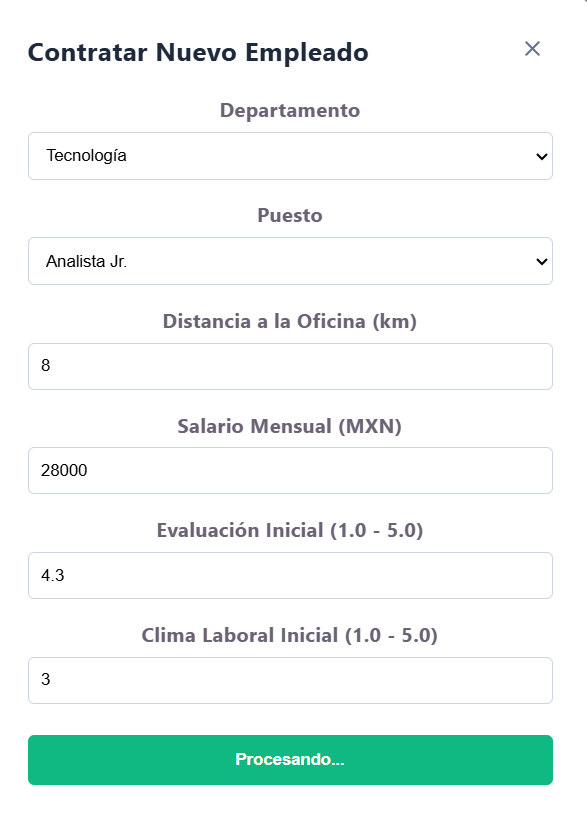
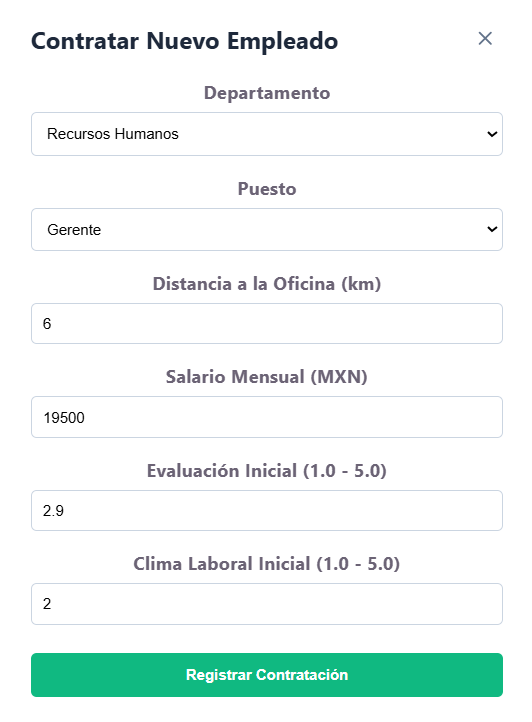
docs(mvp): enlazar capturas debajo de cada una de las 6 pruebas e incluir evidencias de alta y baja logica con clima

diff --git a/Documentos/MVP.md b/Documentos/MVP.md
@@ -9,8 +9,8 @@
 ## 1. Propósito y Resumen Ejecutivo del MVP
 
 El presente documento define formalmente el alcance funcional, técnico y demostrativo del Producto Mínimo Viable (MVP) del **Motor Predictivo de Rotación de Personal**. Su objetivo es proporcionar al área de Recursos Humanos y Dirección de PluriOne S.A. de C.V. una herramienta web funcional y segura capaz de:
-1. Centralizar el expediente operativo de los colaboradores (contratación, salario, desempeño y baja lógica).
-2. Predecir la probabilidad de renuncia mediante un modelo de Machine Learning (**Random Forest Classifier**) entrenado sobre datos históricos reales/simulados en PostgreSQL.
+1. Centralizar el expediente operativo de los colaboradores (contratación, salario, desempeño, clima laboral y baja lógica).
+2. Predecir la probabilidad de renuncia mediante un modelo de Machine Learning (**Random Forest Classifier**) entrenado sobre datos sintéticos almacenados en PostgreSQL (`PluriOne_db`).
 3. Explicar en lenguaje natural las causas detrás de cada predicción (**Inteligencia Artificial Explicable - XAI**) para respaldar decisiones preventivas de retención.
 
 ---
@@ -30,36 +30,36 @@ El MVP opera bajo una arquitectura cliente-servidor desacoplada en 4 capas:
 
 ## 3. Funciones Incluidas en la Entrega (En Alcance)
 
-A continuación se desglosan los módulos que integran la entrega actual y que se encuentran implementados y verificados de punta a punta en el repositorio (ver evidencias en la carpeta /Capturas):
+A continuación se desglosan los módulos que integran la entrega actual y que se encuentran implementados y respaldados mediante las capturas de ejecución ubicadas en el directorio `Capturas/`:
 
 ### 3.1. Módulo de Seguridad, Autenticación y Control de Administradores
-* **Aislamiento de Secretos (`.env`):** Ninguna credencial reside en el código fuente. `backend/database.py` consume `DATABASE_URL` con el driver asíncrono `postgresql+asyncpg://`, `backend/security.py` exige `JWT_SECRET_KEY` (deteniendo el arranque con un `ValueError` si no está configurada) y `backend/crear_admin.py` lee `ADMIN_PASSWORD_INICIAL`.
-* **Encriptación Directa con `bcrypt`:** Las contraseñas de los administradores se procesan directamente con `bcrypt.gensalt()` y `bcrypt.hashpw()`, almacenando únicamente el hash resultante en la tabla `usuarios_admin`.
-* **Autenticación OAuth2 con JWT (`POST /api/v1/login`):** Valida credenciales sin valores precargados en el frontend y emite un token `Bearer` firmado con el algoritmo `HS256`.
-* **Gestión de Administradores (`GET /api/v1/admins` y `POST /api/v1/admins`):** Permite consultar la lista de administradores activos (omitiendo el campo `hashed_password` por seguridad) y registrar nuevos administradores verificando que no existan correos duplicados.
+- **Aislamiento de Secretos (`.env`):** Ninguna credencial reside en el código fuente. `backend/database.py` consume `DATABASE_URL` con el driver asíncrono `postgresql+asyncpg://`, `backend/security.py` exige `JWT_SECRET_KEY` (deteniendo el arranque con un `ValueError` si no está configurada) y `backend/crear_admin.py` lee `ADMIN_PASSWORD_INICIAL`.
+- **Encriptación Directa con `bcrypt`:** Las contraseñas de los administradores se procesan directamente con `bcrypt.gensalt()` y `bcrypt.hashpw()`, almacenando únicamente el hash resultante en la tabla `usuarios_admin`.
+- **Autenticación OAuth2 con JWT (`POST /api/v1/login`):** Valida credenciales sin valores precargados en el frontend y emite un token `Bearer` firmado con el algoritmo `HS256`.
+- **Gestión de Administradores (`GET /api/v1/admins` y `POST /api/v1/admins`):** Permite consultar la lista de administradores activos (omitiendo el campo `hashed_password` por seguridad) y registrar nuevos administradores verificando que no existan correos duplicados.
 
 ### 3.2. Módulo de Directorio y Ciclo de Vida de Empleados
-* **Consulta Histórica Relacional (`GET /api/v1/empleados`):** Endpoint protegido que realiza un cruce asíncrono (`outerjoin`) entre las tablas `empleados`, `historial_salarios` y `evaluaciones_desempeno`, ordenando por fecha de contratación descendente.
-* **Alta Transaccional de Colaboradores (`POST /api/v1/empleados`):** Registra un nuevo empleado generando su `UUID` primario y crea simultáneamente, en la misma transacción, su registro inicial en `historial_salarios` (motivo: *"Contratación Inicial"*) y su primera evaluación en `evaluaciones_desempeno`.
-* **Baja Lógica / Soft Delete (`DELETE /api/v1/empleados/{empleado_id}`):** En lugar de destruir el registro con un `DELETE` físico, cambia la bandera `estado_activo = False`. **Regla de negocio clave:** Conservar a los exempleados en la base de datos es indispensable para que el modelo de Machine Learning tenga casos reales de renuncia (`renuncio = 1`) con los cuales aprender.
+- **Consulta Histórica Relacional (`GET /api/v1/empleados`):** Endpoint protegido que realiza un cruce asíncrono (`outerjoin`) entre las tablas `empleados`, `historial_salarios`, `evaluaciones_desempeno` y `encuestas_clima`, ordenando por fecha de contratación descendente.
+- **Alta Transaccional de Colaboradores (`POST /api/v1/empleados`):** Registra un nuevo empleado generando su `UUID` primario y crea simultáneamente, en la misma transacción (`db.add_all`), su registro inicial en `historial_salarios` (motivo: *"Contratación Inicial"*), su primera evaluación en `evaluaciones_desempeno` y su encuesta inicial en `encuestas_clima`.
+- **Baja Lógica / Soft Delete (`DELETE /api/v1/empleados/{empleado_id}`):** En lugar de destruir el registro con un `DELETE` físico, cambia la bandera `estado_activo = False`. **Regla de negocio clave:** Conservar a los exempleados en la base de datos es indispensable para que el modelo de Machine Learning tenga casos de renuncia (`rotacion_fuga = 1`) con los cuales aprender.
 
 ### 3.3. Pipeline de Machine Learning Ampliado (4 Variables Predictoras)
-* **Extracción Multitabla (`backend/ml/train_model.py`):** Se conecta de forma asíncrona a `PluriOne_db` y extrae registros de **4 tablas del modelo relacional**:
+- **Extracción Multitabla (`backend/ml/train_model.py`):** Se conecta de forma asíncrona a `PluriOne_db` y extrae registros de **4 tablas del modelo relacional**:
   1. `empleados` (`distancia_oficina_km` y etiqueta objetivo `estado_activo`).
   2. `historial_salarios` (`monto_mensual`).
   3. `evaluaciones_desempeno` (`puntuacion_kpi`).
   4. `encuestas_clima` (promediando `satisfaccion_liderazgo` y `balance_vida_trabajo` en la métrica unificada `clima_laboral`).
-* **Tolerancia a Datos Faltantes:** Aplica uniones izquierdas (`how="left"`) e imputación controlada (`fillna`) para evitar caídas si algún colaborador aún no cuenta con encuesta de clima registrada.
-* **Entrenamiento y Serialización:** Entrena un `RandomForestClassifier(n_estimators=100, max_depth=5, random_state=42)` dividiendo el dataset en 80% entrenamiento y 20% prueba, y exporta el binario entrenado a `backend/ml/modelo_rotacion.pkl`.
+- **Tolerancia a Datos Faltantes:** Aplica uniones izquierdas (`how="left"`) e imputación controlada (`fillna`) para evitar caídas si algún colaborador aún no cuenta con encuesta de clima registrada.
+- **Entrenamiento y Serialización:** Entrena un `RandomForestClassifier(n_estimators=100, max_depth=5, random_state=42)` dividiendo el dataset en 80% entrenamiento y 20% prueba, y exporta el binario entrenado a `backend/ml/modelo_rotacion.pkl`.
 
 ### 3.4. Simulador de Riesgo con Inteligencia Artificial Explicable (XAI)
-* **Inferencia en Tiempo Real (`POST /api/v1/predicciones/simulador`):** Recibe un objeto JSON validado por el esquema `SimulacionRiesgo` con 4 dimensiones: `distancia_km`, `salario`, `desempeno` y `clima_laboral`.
-* **Cálculo de Probabilidad y Clasificación:** Ejecuta `modelo_ia.predict()` y `modelo_ia.predict_proba()` para determinar el estado (`🔴 ALTO RIESGO DE FUGA` o `🟢 EMPLEADO ESTABLE`) y el porcentaje exacto de probabilidad de renuncia.
-* **Motor de Razonamiento Heurístico (XAI):** Genera una explicación dinámica en lenguaje natural detallando qué factores específicos detonan la alerta (desgaste por traslado > 20 km, salario < $20,000, subvaloración por alto desempeño > 4.0 con sueldo < $25,000, baja motivación < 2.5 o clima laboral deficiente < 3.0) o qué fortalezas retienen al colaborador.
+- **Inferencia en Tiempo Real (`POST /api/v1/predicciones/simulador`):** Recibe un objeto JSON validado por el esquema `SimulacionRiesgo` con 4 dimensiones: `distancia_km`, `salario`, `desempeno` y `clima_laboral`.
+- **Cálculo de Probabilidad y Clasificación:** Ejecuta `modelo_ia.predict()` y `modelo_ia.predict_proba()` para determinar el estado (`🔴 ALTO RIESGO DE FUGA` o `🟢 EMPLEADO ESTABLE`) y el porcentaje exacto de probabilidad de renuncia.
+- **Motor de Razonamiento Heurístico (XAI):** Genera una explicación dinámica en lenguaje natural detallando qué factores específicos detonan la alerta (desgaste por traslado > 20 km, salario < $20,000, subvaloración por alto desempeño > 4.0 con sueldo < $25,000, bajo desempeño < 2.5 o clima laboral deficiente < 3.0) o qué fortalezas retienen al colaborador.
 
 ### 3.5. Dashboard Ejecutivo e Interfaz de Usuario (React)
-* **Visualización de Indicadores:** Tarjetas de resumen con métricas de plantilla activa, bajas registradas, tasa de retención y gráficas interactivas construidas con `Recharts`.
-* **Exportación de Diagnóstico:** Capacidad de descargar el dictamen generado por el simulador en formato de texto (`.txt`) para integrarlo al expediente del trabajador.
+- **Visualización de Indicadores:** Tarjetas de resumen con métricas de plantilla activa, bajas registradas, tasa de rotación y gráficas interactivas construidas con `Recharts`.
+- **Exportación de Diagnóstico:** Capacidad de descargar el dictamen generado por el simulador en formato de texto (`.txt`) incluyendo las 4 métricas evaluadas para integrarlo al expediente del trabajador.
 
 ---
 
@@ -70,50 +70,74 @@ Para acotar la complejidad del MVP y garantizar la calidad y seguridad del núcl
 | Característica / Módulo | Estado Actual en el Repositorio | Justificación de Exclusión en el MVP |
 | :--- | :--- | :--- |
 | **Explotación de tablas `Capacitacion` y `RegistroAusentismo`** | Modeladas en `backend/models.py` (`capacitaciones` y `registro_ausentismos`), sin endpoints ni peso en el `.pkl`. | Se dejaron definidas en el esquema relacional para asegurar la escalabilidad de la base de datos sin requerir migraciones destructivas en la versión V3.0. |
-| **Edición histórica de salarios y evaluaciones (PUT/PATCH)** | Se registra el salario y KPI inicial al contratar (`POST /api/v1/empleados`). | El MVP prioriza el flujo de alta, baja lógica y simulación; la pantalla de promociones salariales e histórico de KPIs por empleado corresponde a una fase posterior. |
+| **Edición histórica de salarios y evaluaciones (PUT/PATCH)** | Se registra el salario, KPI y clima inicial al contratar (`POST /api/v1/empleados`). | El MVP prioriza el flujo de alta, baja lógica y simulación; la pantalla de promociones salariales e histórico de KPIs por empleado corresponde a una fase posterior. |
 | **Recuperación de contraseña por correo (SMTP)** | No implementado. | El alta y control de accesos se realiza de manera centralizada por los administradores autenticados en el módulo `/api/v1/admins`. |
 | **Despliegue en Nube Pública y CI/CD** | Ejecución en entorno local controlado (`localhost:5173` y `127.0.0.1:8000`). | Por políticas de privacidad de datos de capital humano de la Unidad Económica, las pruebas del MVP se realizan en entorno local aislado. |
 | **Aplicación Móvil Nativa / Base de Datos Local Móvil** | Interfaz web responsiva en navegador. | El sistema es una aplicación web cliente-servidor; no contempla almacenamiento local en dispositivos móviles (SQLite/Room) ni sincronización offline. |
 
 ---
 
-## 5. ¿Cómo se Demuestra cada Función? (Protocolo de Verificación)
+## 5. ¿Cómo se Demuestra cada Función? (Protocolo de Verificación y Evidencias)
 
-Durante la evaluación final, cada componente del MVP se demuestra en vivo siguiendo este protocolo de pruebas verificables:
+Cada componente del MVP cuenta con su evidencia verificable ejecutada en el sistema local dentro de la carpeta `Capturas/`:
 
 ### Prueba 1: Blindaje de Configuración y Variables de Entorno
-* **Acción:** Verificar la existencia de `backend/.env.example` con el esquema `postgresql+asyncpg://` y comprobar que al omitir `JWT_SECRET_KEY` en `.env`, el backend impide el arranque lanzando `ValueError`.
-* **Resultado esperado:** El sistema no permite ejecuciones inseguras con claves por defecto.
+- **Acción:** Verificar la configuración de variables de entorno en `backend/.env.example` con el esquema `postgresql+asyncpg://` y comprobar que al omitir `JWT_SECRET_KEY` en `.env`, el backend impide el arranque lanzando `ValueError`.
+- **Resultado esperado:** El sistema protege las credenciales fuera del código fuente y no permite ejecuciones inseguras con claves por defecto.
+- **Evidencia:** [Capturas/prueba1_variables_entorno.png](../Capturas/prueba1_variables_entorno.png)
+
+![Prueba 1 - Variables de Entorno](../Capturas/prueba1_variables_entorno.png)
+
+---
 
 ### Prueba 2: Control de Acceso y Protección de Endpoints (JWT)
-* **Acción:** Realizar una petición directa sin token a `GET http://127.0.0.1:8000/api/v1/empleados` desde el navegador o Swagger UI (`/docs`).
-* **Resultado esperado:** El servidor rechaza la petición con código HTTP `401 Unauthorized` (`{"detail": "Not authenticated"}`).
+- **Acción:** Realizar una petición directa sin token a `GET http://127.0.0.1:8000/api/v1/empleados` desde el navegador o Swagger UI (`/docs`).
+- **Resultado esperado:** El servidor rechaza la petición con código HTTP `401 Unauthorized` (`{"detail": "Not authenticated"}`).
+- **Evidencia:** [Capturas/prueba2_acceso_no_autorizado_401.png](../Capturas/prueba2_acceso_no_autorizado_401.png)
+
+![Prueba 2 - Acceso No Autorizado 401](../Capturas/prueba2_acceso_no_autorizado_401.png)
+
+---
 
 ### Prueba 3: Inicio de Sesión Limpio y Emisión de Token
-* **Acción:** Abrir `http://localhost:5173`, verificar que los campos de correo y contraseña estén vacíos (sin credenciales precargadas), e ingresar las credenciales del administrador creadas con `crear_admin.py`.
-* **Resultado esperado:** `POST /api/v1/login` responde `200 OK` con el `access_token` JWT y redirige al Dashboard Ejecutivo mostrando las gráficas de retención.
+- **Acción:** Abrir `http://localhost:5173`, verificar que los campos de correo y contraseña estén vacíos (sin credenciales precargadas), e ingresar las credenciales del administrador creadas con `crear_admin.py`.
+- **Resultado esperado:** `POST /api/v1/login` responde `200 OK` con el `access_token` JWT y da acceso al sistema.
+- **Evidencia:** [Capturas/prueba3_login.png](../Capturas/prueba3_login.png)
 
-### Prueba 4: Contratación y Baja Lógica (Soft Delete)
-* **Acción:** 
-  1. En la vista de Directorio, registrar un nuevo colaborador indicando puesto, departamento, distancia, salario y desempeño.
-  2. Presionar el botón de dar de baja sobre un colaborador activo.
-* **Resultado esperado:** 
-  1. `POST /api/v1/empleados` inserta al empleado junto con su salario y evaluación inicial.
-  2. `DELETE /api/v1/empleados/{id}` actualiza `estado_activo = False`. El colaborador cambia su estado sin ser borrado físicamente de PostgreSQL, preservando el historial para futuros reentrenamientos del modelo.
+![Prueba 3 - Login Limpio](../Capturas/prueba3_login.png)
+
+---
+
+### Prueba 4: Contratación con Clima Laboral y Baja Lógica (Soft Delete)
+- **Acción:** 
+  1. En la vista de Directorio, abrir el modal de contratación y registrar un nuevo colaborador indicando departamento, puesto, distancia, salario, evaluación inicial y clima laboral inicial (`2.0`).
+  2. Verificar que el colaborador aparezca dado de alta como `Activo` en el Directorio mostrando su clima laboral (`2.0 / 5.0`).
+  3. Presionar el botón «Dar de baja» sobre el colaborador recién registrado.
+- **Resultado esperado:** 
+  1. `POST /api/v1/empleados` inserta al empleado junto con su salario, evaluación y encuesta de clima en PostgreSQL.
+  2. `DELETE /api/v1/empleados/{id}` actualiza `estado_activo = False`, cambiando su estado visual a `Baja (Histórico)` sin destruir el registro físico.
+- **Evidencia 4a (Formulario de Contratación con 4 variables):** [Capturas/prueba4_directorio_alta_logica.png](../Capturas/prueba4_directorio_alta_logica.png)
+- **Evidencia 4b (Empleado dado de alta en Directorio con Clima 2.0):** [Capturas/alta.png](../Capturas/alta.png)
+- **Evidencia 4c (Empleado procesado con Baja Lógica / Histórico):** [Capturas/baja.png](../Capturas/baja.png)
+
+![Prueba 4a - Modal de Contratación](../Capturas/prueba4_directorio_alta_logica.png)
+![Prueba 4b - Empleado Dado de Alta](../Capturas/alta.png)
+![Prueba 4c - Empleado Dado de Baja](../Capturas/baja.png)
+
+---
 
 ### Prueba 5: Simulación Predictiva de 4 Dimensiones y Razonamiento XAI
-* **Acción A (Escenario de Alto Riesgo):** En el Simulador, ingresar `distancia_km: 35`, `salario: 14000`, `desempeno: 4.5`, `clima_laboral: 2.0` y ejecutar la predicción.
-  * **Resultado esperado:** El sistema devuelve `🔴 ALTO RIESGO DE FUGA`, el porcentaje de probabilidad calculado por el Random Forest y el diagnóstico XAI explicando que la distancia genera desgaste, el sueldo no es proporcional a su alto desempeño y percibe un clima laboral deficiente.
-* **Acción B (Escenario Estable):** Ingresar `distancia_km: 8`, `salario: 32000`, `desempeno: 4.0`, `clima_laboral: 4.5`.
-  * **Resultado esperado:** El sistema devuelve `🟢 EMPLEADO ESTABLE` y detalla las fortalezas de retención del perfil.
+- **Acción:** En el Simulador de Riesgo (IA), ingresar las 4 variables (`distancia_km`, `salario`, `desempeno` y `clima_laboral`) y ejecutar la predicción.
+- **Resultado esperado:** El sistema evalúa las 4 dimensiones en el modelo Random Forest, devuelve la clasificación (`🔴 ALTO RIESGO DE FUGA` o `🟢 EMPLEADO ESTABLE`), el porcentaje de probabilidad, el resumen de los 4 factores evaluados y el diagnóstico explicable XAI con opción de descarga a `.txt`.
+- **Evidencia:** [Capturas/prueba5_simulador_4_variables.png](../Capturas/prueba5_simulador_4_variables.png)
+
+![Prueba 5 - Simulador 4 Variables](../Capturas/prueba5_simulador_4_variables.png)
+
+---
 
 ### Prueba 6: Reproducibilidad del Entrenamiento ML
-* **Acción:** Ejecutar en terminal dentro de `backend/`: `python ml/train_model.py`.
-* **Resultado esperado:** El script extrae las 4 tablas desde `PluriOne_db`, construye el vector `X = df_completo[["distancia_km", "salario", "desempeno", "clima_laboral"]]`, imprime la precisión (`accuracy_score`) y el reporte de clasificación en consola, y actualiza el archivo `backend/ml/modelo_rotacion.pkl`.
-  **Prueba 1.** Evidencia: Capturas/prueba1_variables_entorno.png
-  **Prueba 2.** Evidencia: Capturas/prueba2_acceso_no_autorizado_401.png
-  **Prueba 3.** Evidencia: Capturas/prueba3_login.png
-  **Prueba 4.** Evidencia: Capturas/prueba4_directorio_alta_logica.png
-  **Prueba 5.** Evidencia: Capturas/prueba5_simulador_4_variables(riesgo).png
-  **Prueba 6.** Evidencia: Capturas/prueba6_simulador_4_variables(estable).png
-  **Prueba 7.** Evidencia: Capturas/prueba7_entrenamiento_modelo.png
+- **Acción:** Ejecutar en terminal dentro de `backend/`: `python ml/train_model.py`.
+- **Resultado esperado:** El script extrae las 4 tablas desde `PluriOne_db`, construye el vector de 4 variables, imprime la precisión global (`67.15%`) y el reporte de clasificación (`precision: 0.69`, `recall: 0.76`, `f1-score: 0.72` para la clase de fuga) en consola, y actualiza el binario `backend/ml/modelo_rotacion.pkl`.
+- **Evidencia:** [Capturas/prueba6_entrenamiento_modelo.png](../Capturas/prueba6_entrenamiento_modelo.png)
+
+![Prueba 6 - Entrenamiento del Modelo](../Capturas/prueba6_entrenamiento_modelo.png)
